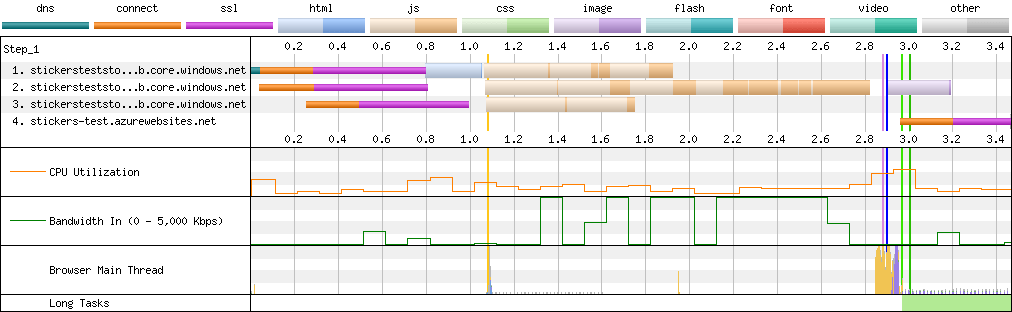
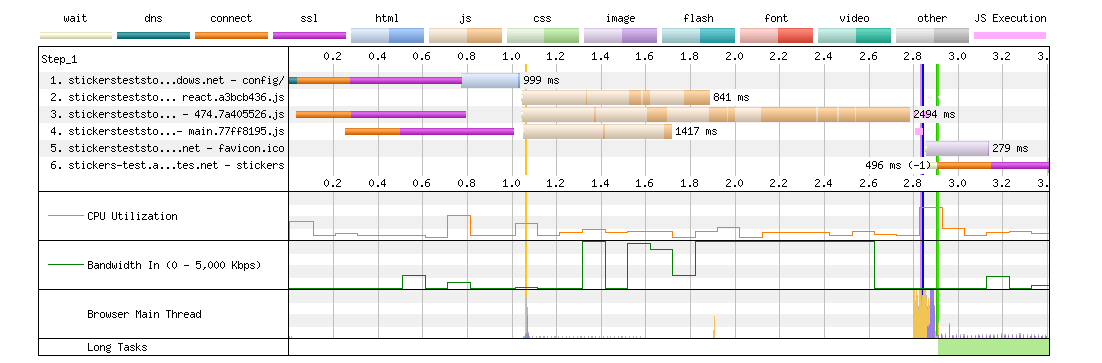
preconnect

diff --git a/_posts/2022-11-18-my-stickers-config-app-with-api-optimization.md b/_posts/2022-11-18-my-stickers-config-app-with-api-optimization.md
@@ -19,8 +19,10 @@ tags:
 
 1. 下载 html 页面
 2. 下载 js bundles (库)
-3. 下载 js 文件(并行)
-4. 请求用户表情列表
+3. 下载 js bundles (库)
+4. 下载 js 文件(并行)
+5. 下载图标(iframe 中可忽略)
+6. 请求用户表情列表
 
 ### CDN + http2
 
@@ -32,12 +34,30 @@ tags:
 
 可以看到 html 之后的 js 没有 connect 和 ssl 握手阶段，复用了同一个连接。
 
+### Preconnect
+
+可以发现 6 调用 API(另外一个域名)的请求在，js 执行完之后才开始。
+这个过程又重新进行 DNS,建立 TCP,SSL 握手，然后发送请求。
+
+![https connection](/assets/img/my-stickers-config-app-with-api-optimization/first-request.png)
+
+第一次打开这个 APP，这个 URL 从来没有发送过，请求的情况下，这些准备阶段很可能会耗时比较长(X00ms 到 1s,极端情况下会更长.)
+
+`preconnect` 可以在下载 JS 的同时取提前建立连接
+
+```html
+<link rel="preconnect" href="https://stickers-test-server.azurewebsites.net" crossorigin />
+```
+
+![preconnect](/assets/img/my-stickers-config-app-with-api-optimization/waterfall-preconnect.png)
+
+可以发现 6z 的 connect 和 ssl 已经在 JS 下载阶段就完成，JS 执行后立即就开始了 request.
+
 ### More
 
 -   使用 Azure Front Door (价格更高): 同一个域名,避免跨域预检和客户都链接，并提高 API 网络的稳定性；
 -   CDN 预取 CDN preload (需要 Premium 版): 提前分发到边缘节点。
 -   http2 push (Azure CDN 不支持): 下载 html 时主动推送 js 文件。
-
 -   http3 (UDP) 可以跳过握手阶段。
 
 ## 再次打开
